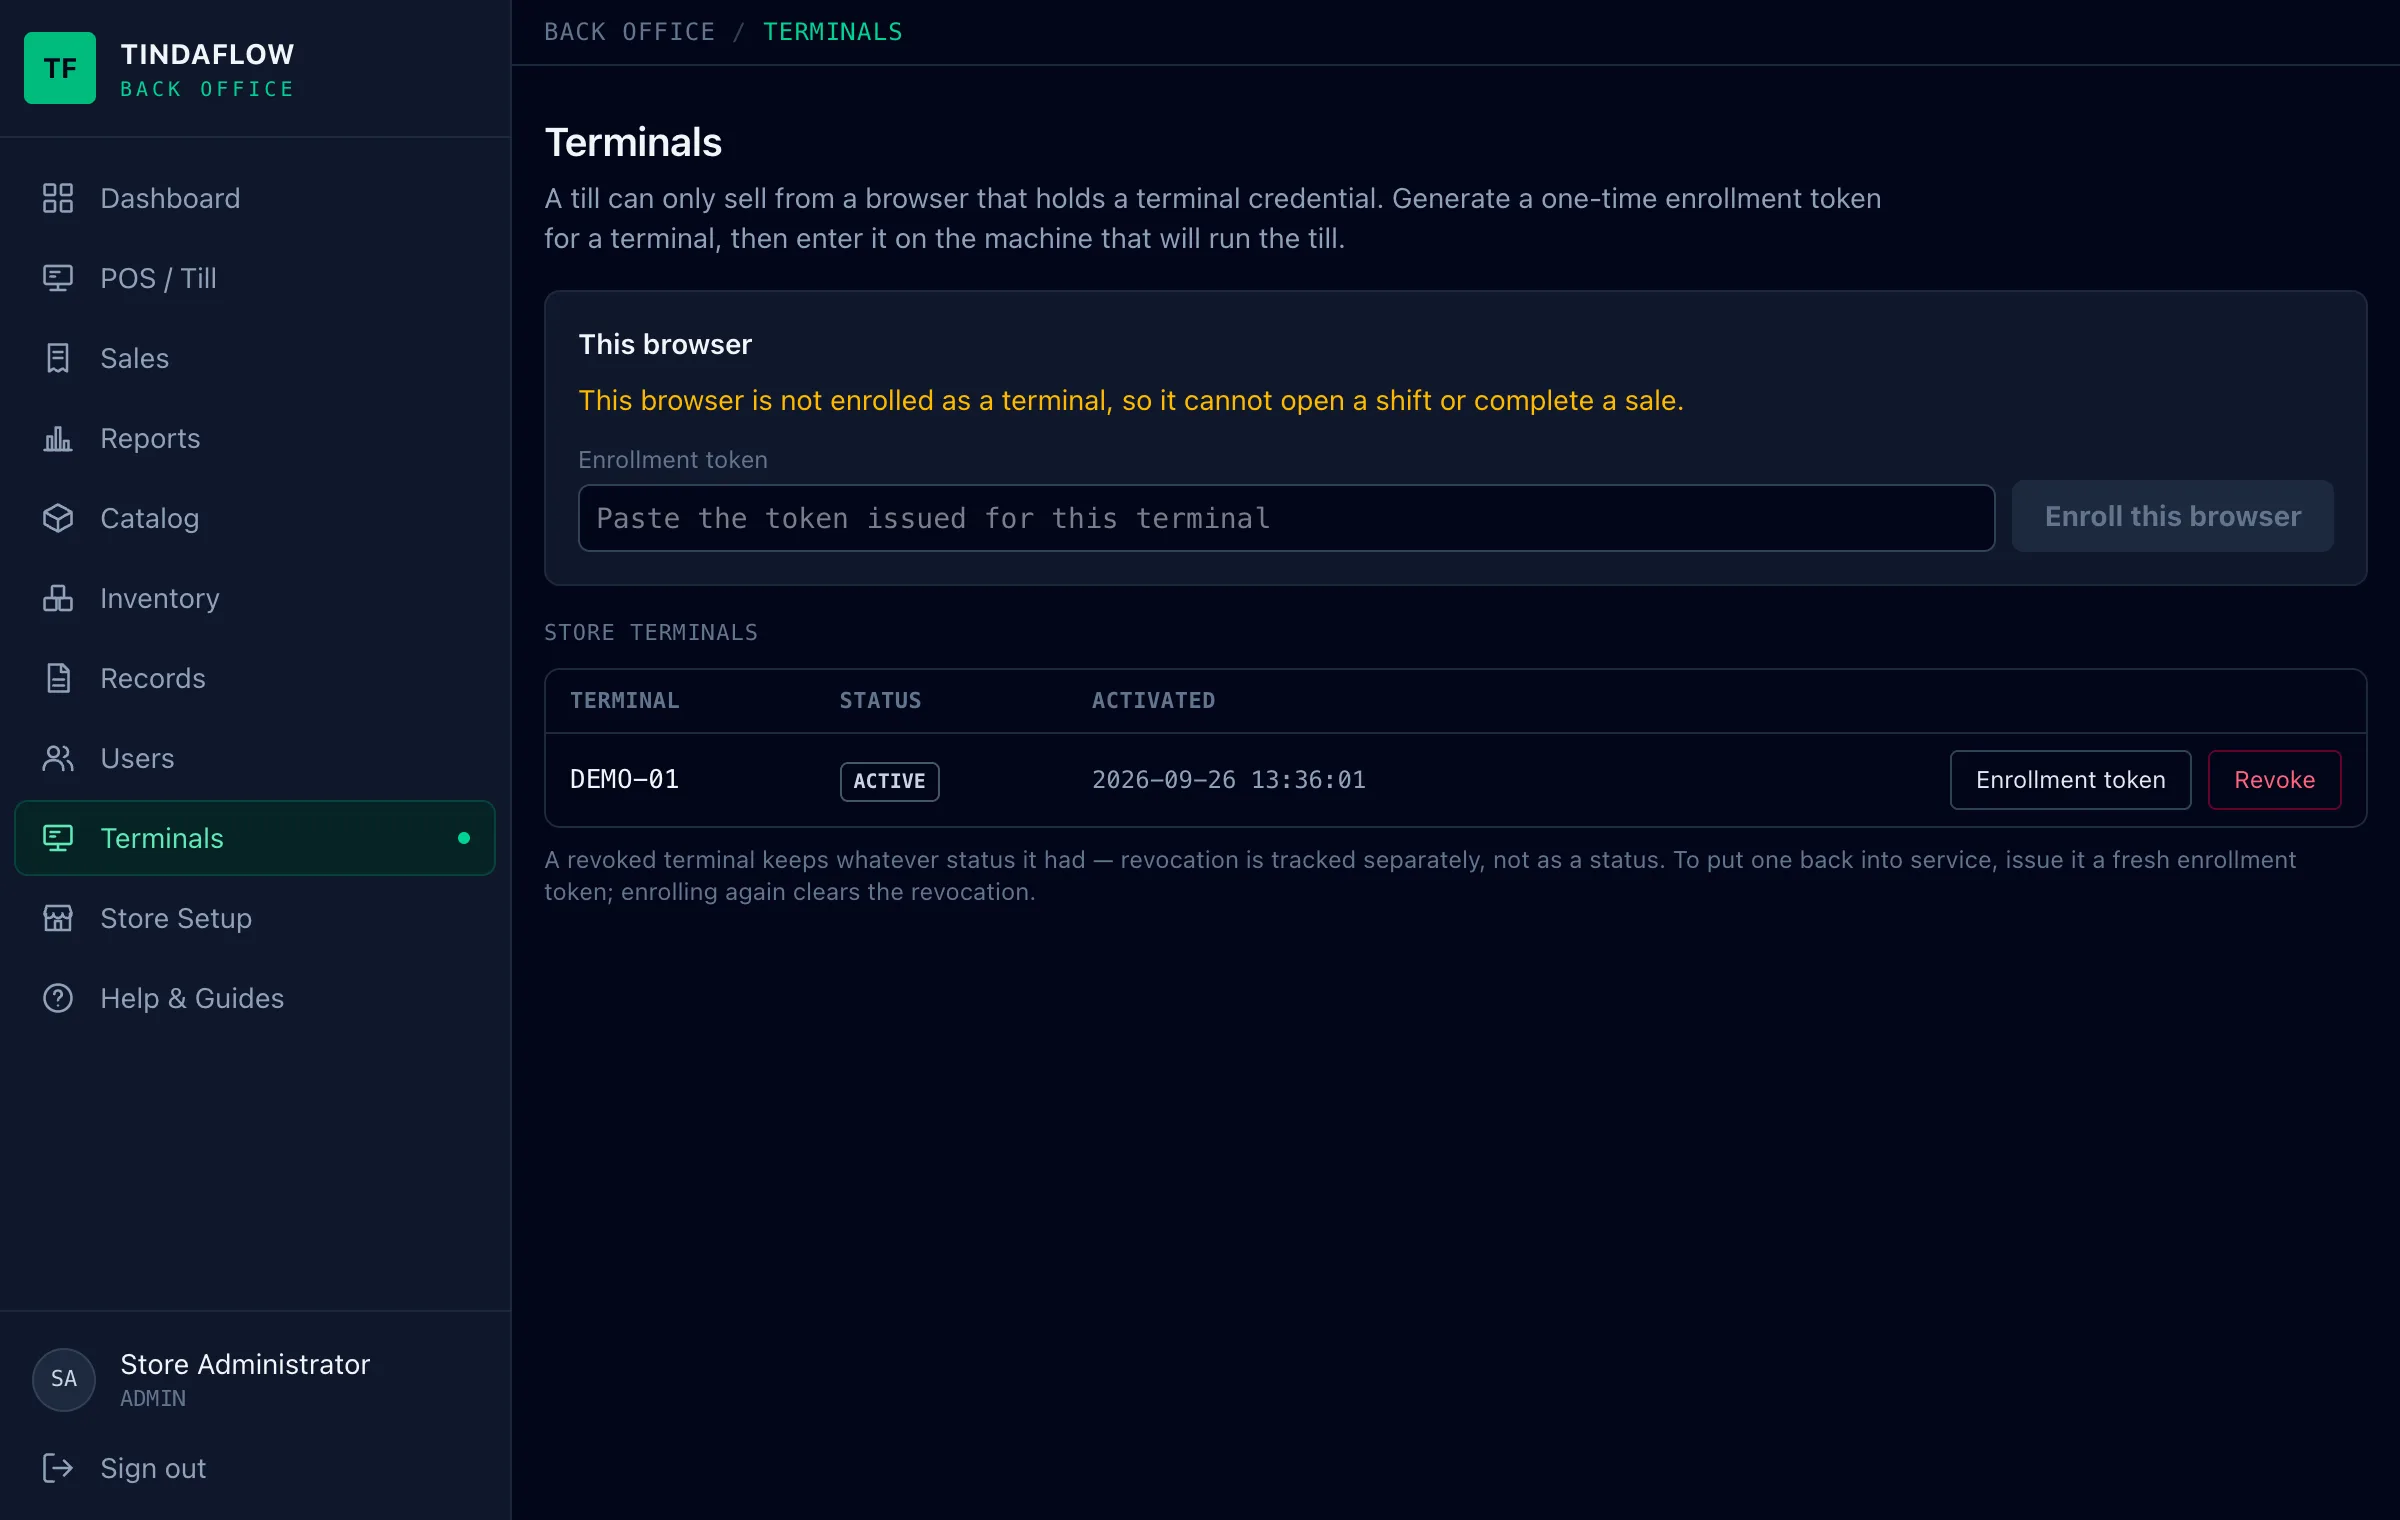
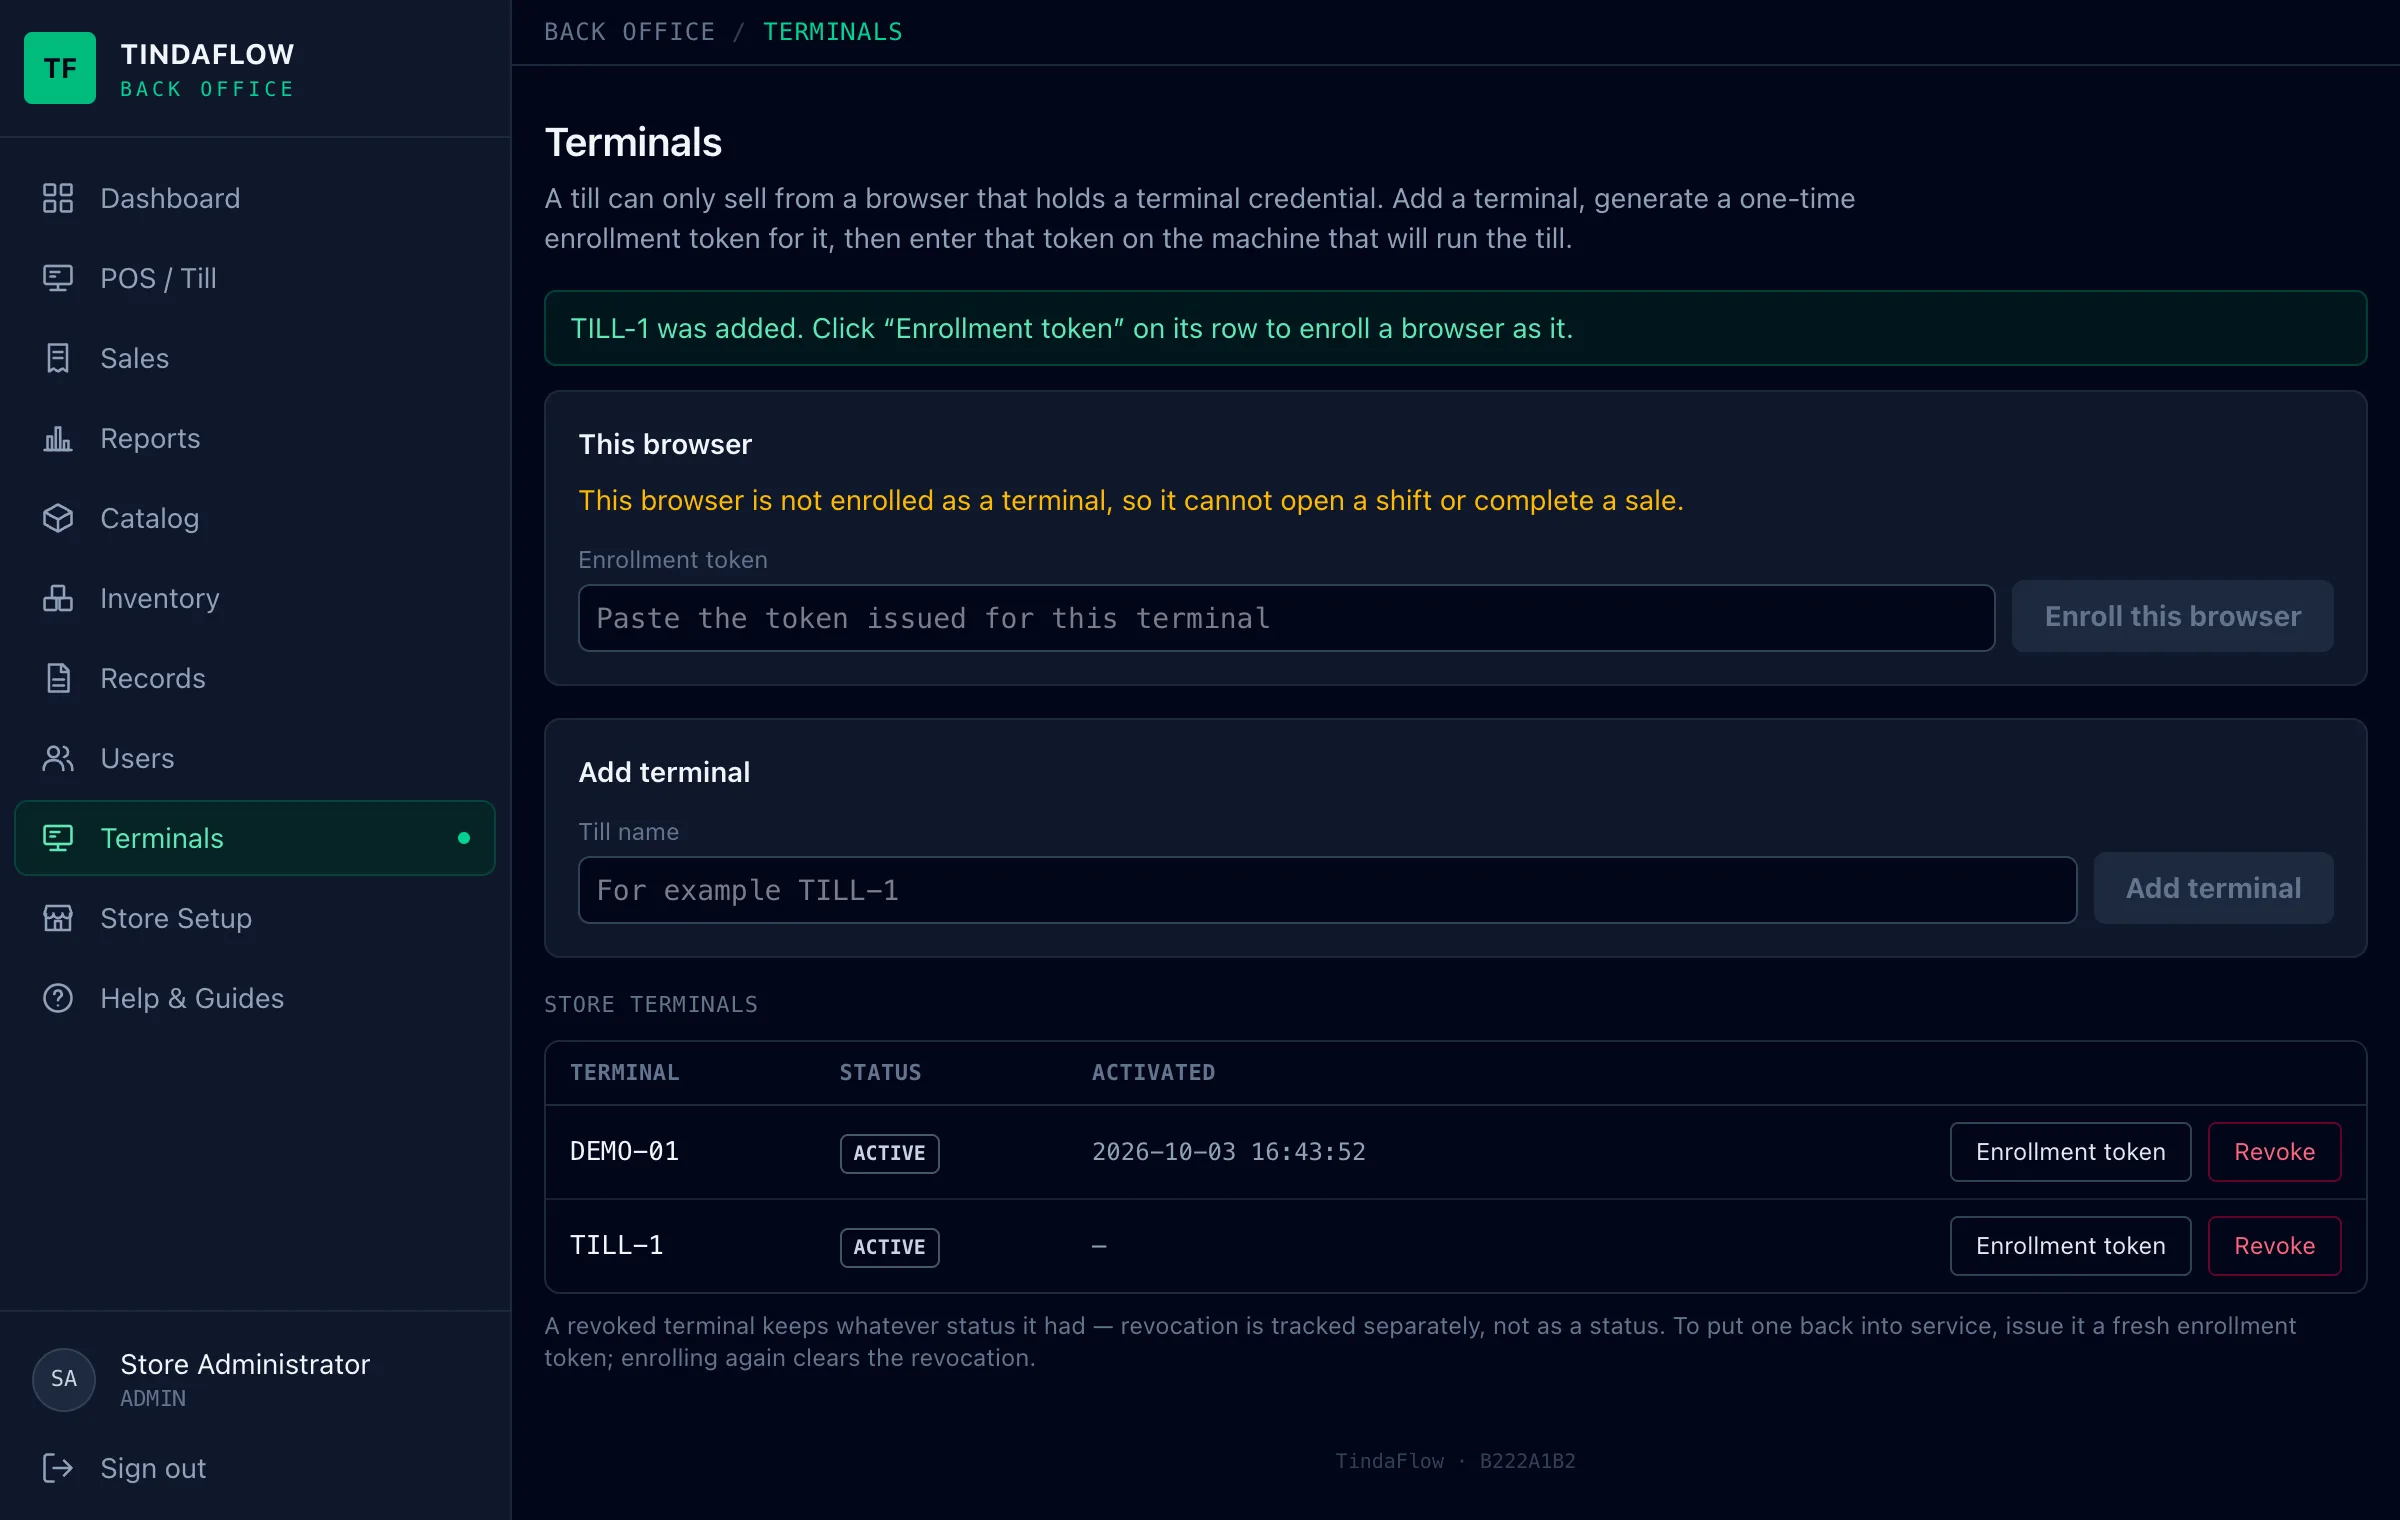
docs: add an Add terminal step and refreshed screenshots to the enroll-a-till guide
New terminals-add picture; terminals-before, -token and -enrolled retaken so they show
the Add terminal form. The capture script now adds a till through the form first.

diff --git a/resources/js/pages/help/guides/enrollTerminal.js b/resources/js/pages/help/guides/enrollTerminal.js
@@ -22,11 +22,23 @@ export default {
             },
         },
         {
-            title: 'Open Terminals, add the till and issue a token',
-            body: 'Click **Terminals** in the menu. If your till is not listed, type its name under **Add terminal** and click **Add terminal**. Then, under **Store terminals**, find your till and click **Enrollment token** on its row.',
+            title: 'Open Terminals and add the till',
+            body: 'Click **Terminals** in the menu. If your till is not in the list, type its name under **Add terminal** (for example **TILL-1**) and click **Add terminal**. Each till needs its own name, and two tills cannot share one.',
+            figure: {
+                shot: 'terminals-add',
+                alt: 'The Add terminal form with the till name TILL-1 typed in.',
+                marks: [
+                    { type: 'type', target: 'name', label: 'Till name', detail: 'Till name, for example:', text: 'TILL-1' },
+                    { type: 'click', target: 'add', label: 'Click Add terminal', detail: 'Click Add terminal. The till appears under Store terminals.' },
+                ],
+            },
+        },
+        {
+            title: 'Issue a token',
+            body: 'Under **Store terminals**, find your till and click **Enrollment token** on its row.',
             figure: {
                 shot: 'terminals-before',
-                alt: 'The Terminals page showing this browser is not enrolled and one terminal in the list.',
+                alt: 'The Terminals page showing this browser is not enrolled and the terminals in the list.',
                 marks: [
                     { type: 'look', target: 'this-browser', label: 'Not enrolled yet', detail: 'The box at the top says whether this browser is enrolled.' },
                     { type: 'click', target: 'token', label: 'Click Enrollment token', detail: 'Click Enrollment token on the till’s row.' },
